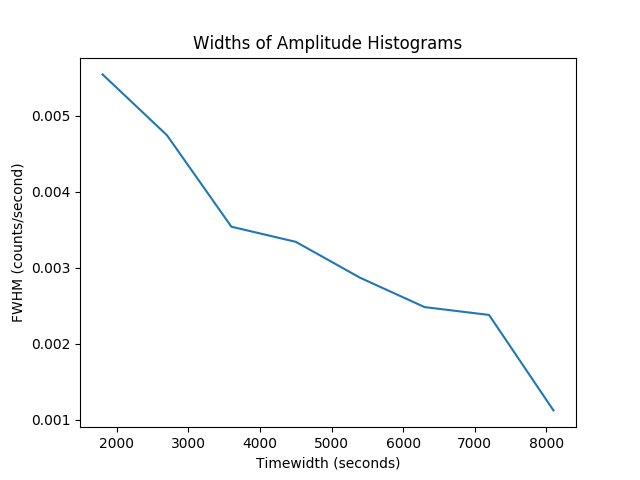
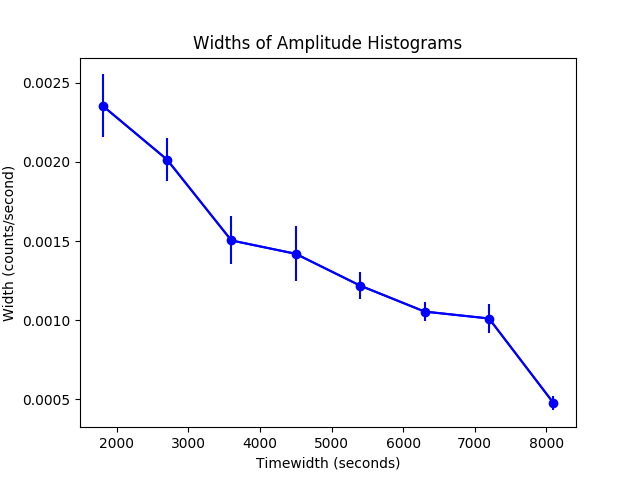
added error bars

diff --git a/PulseCharacteristics/ampfit.py b/PulseCharacteristics/ampfit.py
@@ -128,8 +128,6 @@ def fit(pulsarname, timewidth):
                 removed.append(n)
    
    
-  #  print("The number of profiles removed due to insufficient data is", len(removed)+emptyremoved)
-  
     if (pulsarname == '1937'):
         binwidths = list(np.arange(0,0.015 , 0.00025))
     if (pulsarname == '1821'):
@@ -161,13 +159,12 @@ def fit(pulsarname, timewidth):
         popt, pcov = curve_fit(gauss, xvals, yvals, p0= [max(yvals),maxloc, 0.005, min(yvals)], bounds = ((0, 0, 0, 0), (np.inf, np.inf, np.inf, np.inf))) 
     if (pulsarname == 'crab'):
         popt, pcov = curve_fit(gauss, xvals, yvals, p0= [max(yvals),maxloc, 1, min(yvals)], bounds = ((0, 0, 0, 0), (np.inf, np.inf, np.inf, np.inf))) 
-    width = 2*np.sqrt(2*(math.log(2)))*(popt[2])
- #   print("The width is", width)
+    width = popt[2] #2*np.sqrt(2*(math.log(2)))*(popt[2])
     plt.plot(xvals, gauss(xvals,*popt))
+    errorbar = np.absolute(pcov[2][2])**0.5
     plt.xlabel('Amplitude of Peak')
     plt.ylabel('Counts')
     plt.title('Amplitudes of Pulse Profiles')
-  #  plt.legend(['width =', width], ['amplitude =', popt[0]], ['center =', popt[1]])
     f = open("amphistdata.txt", "a")
     print("width = ", width, file=f)
     print("amplitude = ", popt[0], file=f)
@@ -180,20 +177,25 @@ def fit(pulsarname, timewidth):
     if (pulsarname == 'crab'):
         plt.savefig('crab_%s.png' % timewidth)
     plt.clf()
-    return(popt[0], width)
+    return(popt[0], width, errorbar)
 
 amp = []
 width = []
+errorbars = []
 timewidth=[]
 for twidth in range(60, 210, 30):
-    a, w = fit('crab', twidth)
+ #   if (twidth == 1800):
+  #      twidth = 2100
+    a, w, e = fit('crab', twidth)
     amp.append(a)
     width.append(w)
+    errorbars.append(e)
     timewidth.append(twidth)
-plt.plot(timewidth, width)
+plt.plot(timewidth, width, marker='o', color = 'b')
+plt.errorbar(timewidth, width, yerr = errorbars, color = 'b')
 plt.title("Widths of Amplitude Histograms")
 plt.xlabel("Timewidth (seconds)")
-plt.ylabel("FWHM (counts/second)")
+plt.ylabel("Width (counts/second)")
 plt.show()
 
 
